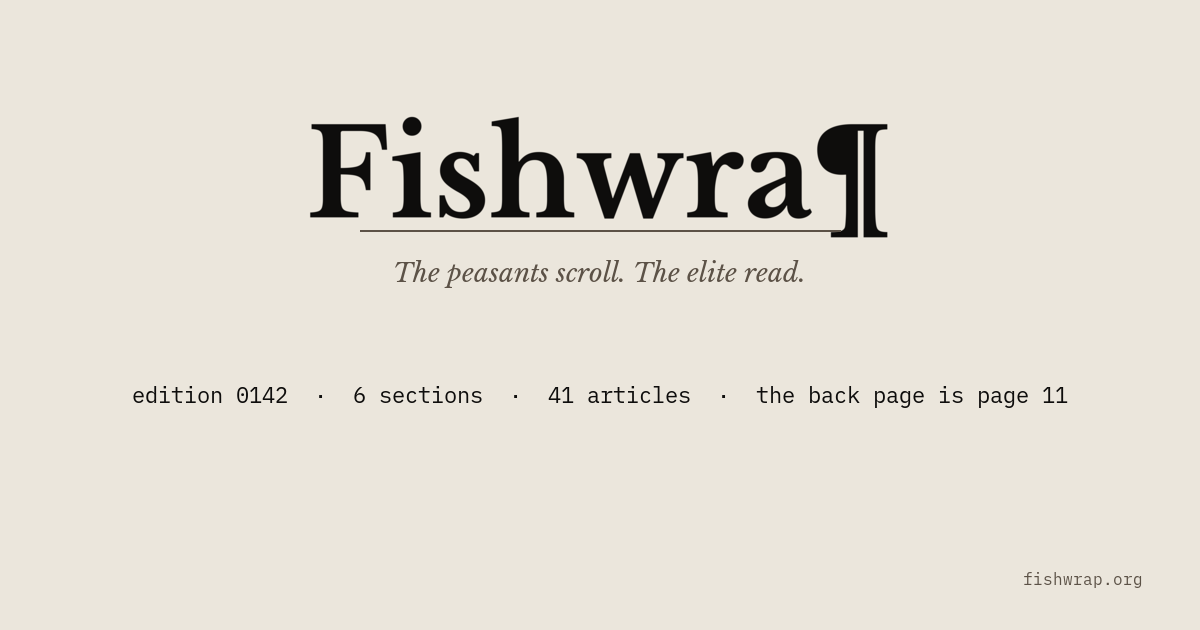
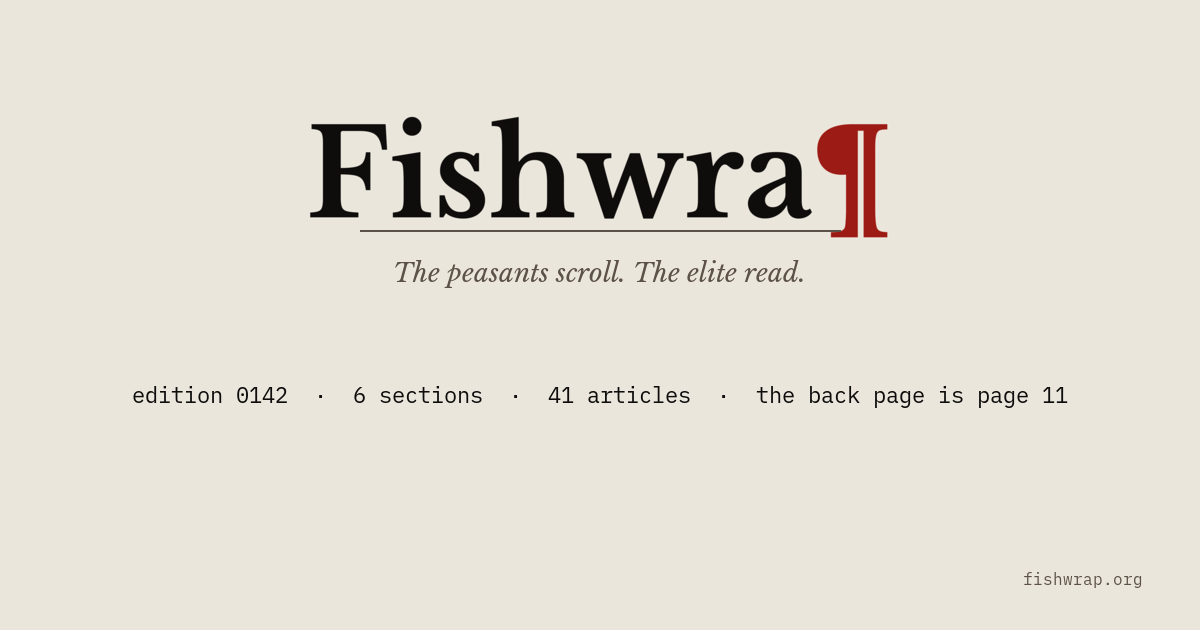
brand: wordmark pilcrow in Cardinal Red
The wordmark was pure Refusal Black on Smoke Cream. The substitution
(¶ in place of P) was typographically present but chromatically invisible.
Promoting the pilcrow to Cardinal Red — already the bible's "editor's
pencil" color — makes the editor's mark announce itself in the brand
name's own color. The eye reads `Fishwra` in ink, then a red pencil
mark where the P should be. The wink is visible at full size; the
substitution is no longer subtle.

The favicon glyph stays monochrome Refusal Black on Smoke Cream. At
16×16, Cardinal Red on Smoke Cream reads as a notification badge rather
than as an editor's mark; the bare bitmap relies on shape, not color,
to communicate the glyph.

Changes:
  - docs/static/brand/generate-assets.py: WORDMARK_COLORS dict maps
    character index 7 (the pilcrow) to PENCIL (#9C1B14). Default for
    every other character remains INK.
  - docs/static/images/fishwrap_logo.svg: regenerated; per-path fill
    attribute replaces the parent-group fill.
  - docs/static/images/og-card.png: regenerated against the new wordmark.
  - docs/BRAND.md §6.1: locked the wordmark color specification.
  - docs/BRAND.md §6.3 palette table: Refusal Black role narrowed to
    "Fishwra" letterforms + the bare favicon pilcrow; Cardinal Red role
    expanded to name "the wordmark's pilcrow" as the primary use at
    masthead size.

Changed region(s): [[0.6783, 0.181, 0.74, 0.3921]]

diff --git a/docs/static/brand/generate-assets.py b/docs/static/brand/generate-assets.py
@@ -37,6 +37,11 @@ WEIGHT_BOLD = 700
 INK = "#0E0D0C"        # Refusal Black
 PAPER = "#EBE6DC"      # Smoke Cream
 MARGIN = "#5C5247"     # Margin Ink
+PENCIL = "#9C1B14"     # Cardinal Red — the editor's pencil
+
+# Per-character color overrides for the wordmark. Default (any character not
+# named here) is INK. Indices match WORDMARK_TEXT character positions.
+WORDMARK_COLORS = {7: PENCIL}  # index 7 = the pilcrow
 
 FAVICON_SIZES = [16, 32, 48, 64, 96, 128, 180, 192, 256, 512]
 ICO_SIZES = [16, 32, 48]
@@ -66,13 +71,14 @@ def generate_wordmark():
 
     paths = []
     x_cursor = 0
-    for ch in WORDMARK_TEXT:
+    for idx, ch in enumerate(WORDMARK_TEXT):
         gname = cmap.get(ord(ch))
         if gname is None:
             sys.exit(f"No glyph for {ch!r} (U+{ord(ch):04X}) in {LIBRE_BASKERVILLE.name}")
         path_d, advance = glyph_path_d(glyph_set, gname)
+        color = WORDMARK_COLORS.get(idx, INK)
         if path_d:
-            paths.append((x_cursor, path_d, gname))
+            paths.append((x_cursor, path_d, gname, color))
         x_cursor += advance
 
     wm_width = x_cursor
@@ -80,10 +86,10 @@ def generate_wordmark():
 
     svg_lines = [
         f'<svg xmlns="http://www.w3.org/2000/svg" viewBox="0 {-ascent} {wm_width} {wm_height}" preserveAspectRatio="xMidYMid meet">',
-        f'  <g transform="scale(1,-1)" fill="{INK}">',
+        '  <g transform="scale(1,-1)">',
     ]
-    for x, d, gname in paths:
-        svg_lines.append(f'    <path transform="translate({x},0)" d="{d}"/>  <!-- {gname} -->')
+    for x, d, gname, color in paths:
+        svg_lines.append(f'    <path transform="translate({x},0)" d="{d}" fill="{color}"/>  <!-- {gname} -->')
     svg_lines.append("  </g>")
     svg_lines.append("</svg>\n")
 

diff --git a/docs/BRAND.md b/docs/BRAND.md
@@ -108,7 +108,9 @@ The visual home is one. The wordmark, the glyph, the palette, the type stack, an
 
 The wordmark is **`Fishwra¶`**: the word *Fishwrap* with the pilcrow taking the place of the closing P. The substitution is not decorative. The pilcrow is the editor's mark for a new paragraph; the brand name carries that mark literally embedded in it. Reading the wordmark out loud, the reader still says *Fishwrap*. Reading it on the page, the reader sees the editor at work.
 
-The wordmark is set in **Libre Baskerville Bold** (variable weight axis at 700), mixed case, no brackets, no monospace, no all-caps, no flanking ornament. Optical kerning. Tracking at the default. The pilcrow renders at the same weight, color, and baseline as the surrounding letters; its descender sits below the baseline by approximately one quarter of the cap height.
+The wordmark is set in **Libre Baskerville Bold** (variable weight axis at 700), mixed case, no brackets, no monospace, no all-caps, no flanking ornament. Optical kerning. Tracking at the default. The letters `Fishwra` render in Refusal Black; the pilcrow renders in **Cardinal Red** (`#9C1B14`), the editor's pencil. The substitution is announced typographically (the editor's mark replaces the letter) and chromatically (the editor's mark wears the editor's color). The pilcrow sits at the same weight and baseline as the surrounding letters; its descender drops below the baseline by approximately one quarter of the cap height.
+
+The favicon glyph remains monochrome Refusal Black on Smoke Cream. At 16×16, red reads as a notification badge rather than as an editor's mark; the bare bitmap relies on shape alone, not color.
 
 The wordmark is rendered as a path-only SVG at `docs/static/images/fishwrap_logo.svg`. The SVG embeds the glyph outlines directly: no `@font-face`, no font dependency, no client-side text rendering. The file scales infinitely and renders identically in browsers, ImageMagick, librsvg, and OS previewers.
 
@@ -139,8 +141,8 @@ Seven colors. Five inherit from REFUSAL; two cross over from the EDITOR draft fo
 | Token | Hex | Role |
 |---|---|---|
 | Smoke Cream | `#EBE6DC` | Field. Page background, the paper the broadsheet is printed on. |
-| Refusal Black | `#0E0D0C` | Body, wordmark, pilcrow, rules at full weight. Near-true black; broadsheet contrast against Smoke Cream. |
-| Cardinal Red | `#9C1B14` | The editor's pencil. Positive score deltas, the dateline, the page-end ornament, the *added* mark when the reader has imposed emphasis. Used inline at body weight; permitted at masthead size on the dateline and the page-end ornament only. |
+| Refusal Black | `#0E0D0C` | Body, the wordmark's letterforms (`Fishwra`), the bare favicon pilcrow, rules at full weight. Near-true black; broadsheet contrast against Smoke Cream. |
+| Cardinal Red | `#9C1B14` | The editor's pencil. The wordmark's pilcrow. Positive score deltas, the dateline, the page-end ornament, the *added* mark when the reader has imposed emphasis. Used inline at body weight; permitted at masthead size on the wordmark pilcrow, the dateline, and the page-end ornament only. |
 | Lead | `#3B3A39` | Secondary text on REFUSAL surfaces. The lead in a No. 2 pencil. |
 | Bone | `#D9D2C2` | Section dividers, the back-page mark. |
 | Folio Gold | `#A8884A` | Section heads and edition number on EDITOR surfaces; the masthead bar when the edition number is printed beside it. One element per page maximum. |
